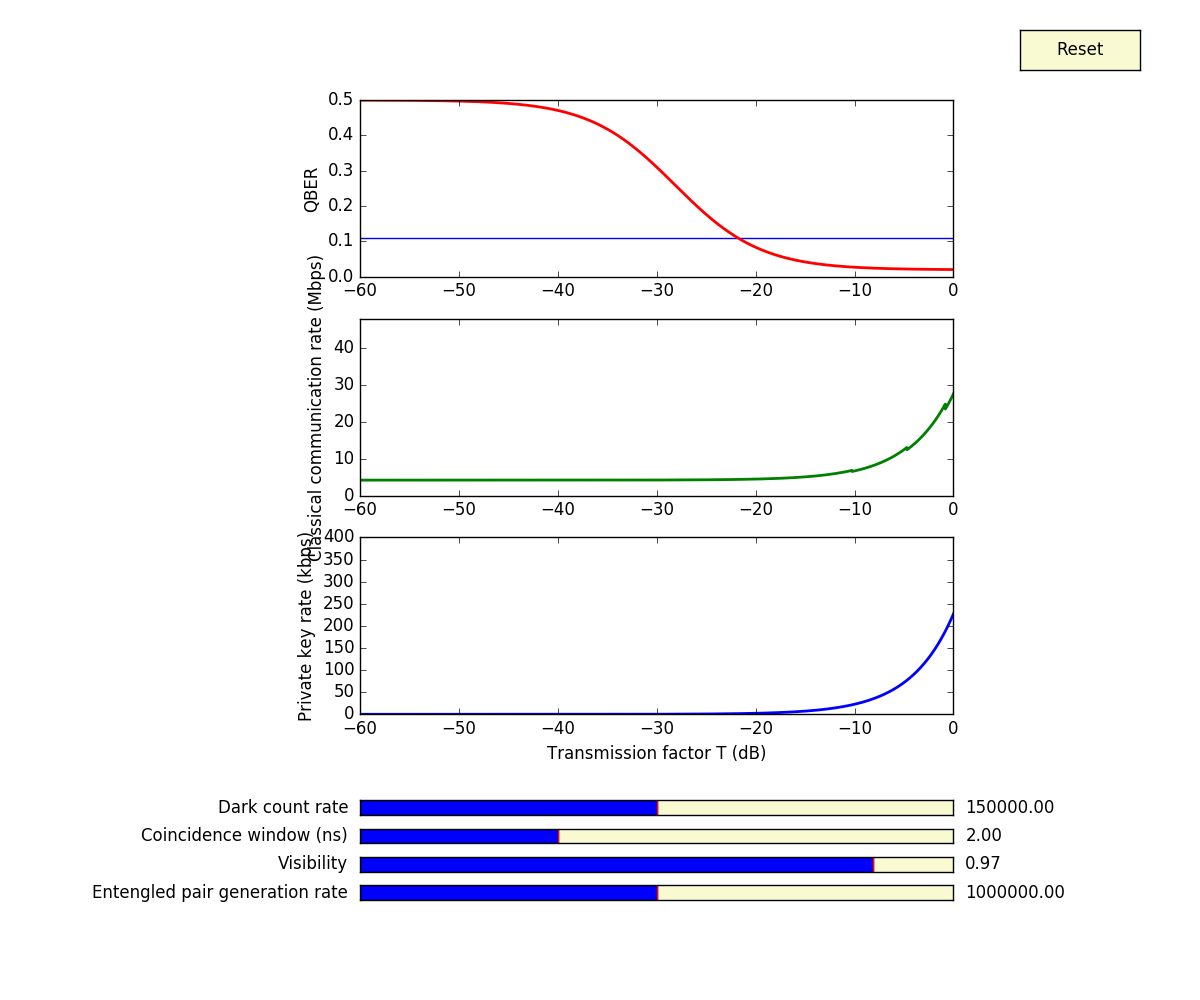
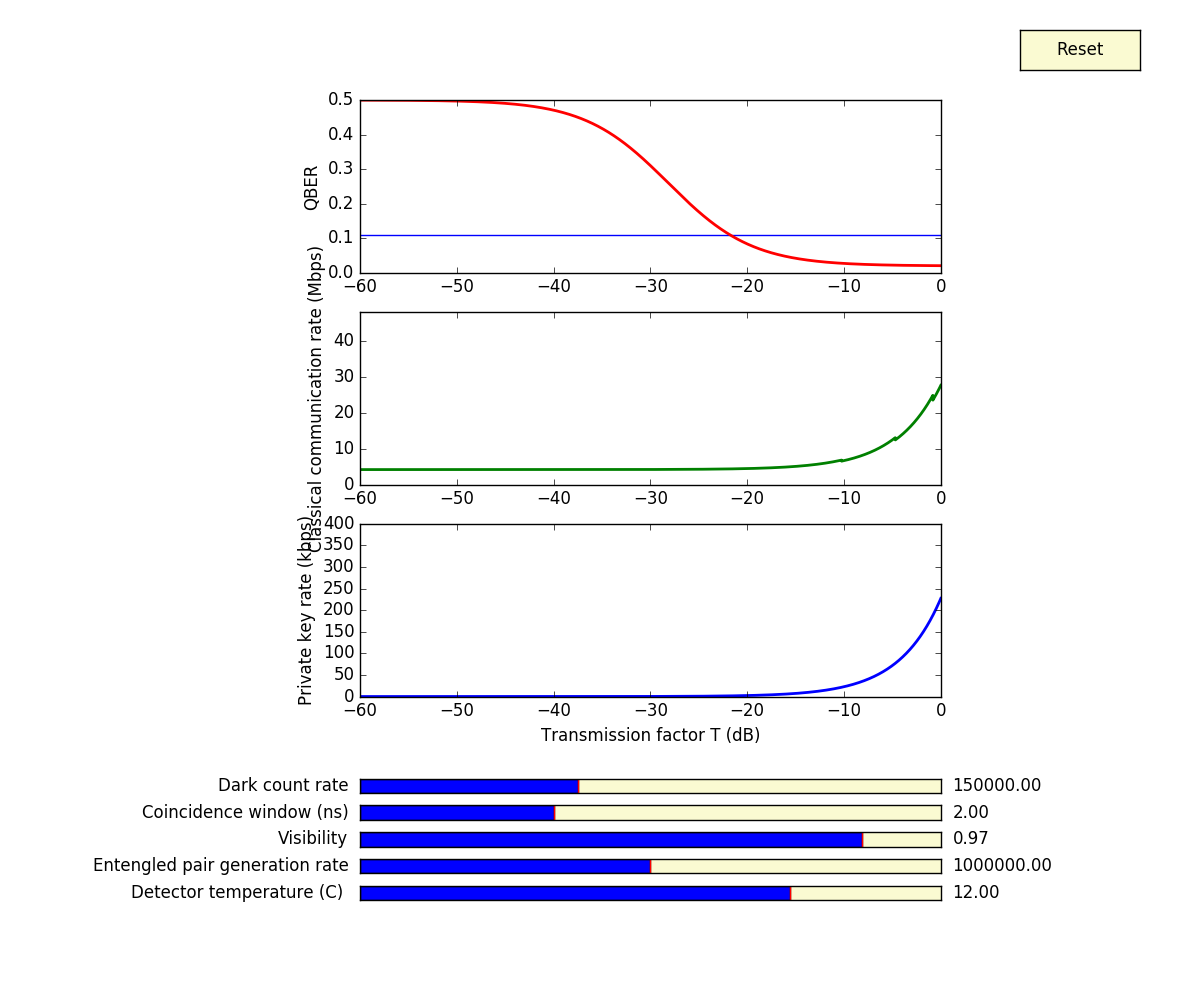
Added Temperature dependency of Dark count rate

diff --git a/s2qkd-sim.py b/s2qkd-sim.py
@@ -17,7 +17,10 @@
                                                             pairs generated from
                                                             the source per 
                                                             second.   
-                   
+                    Detector temperature (C)            =   Given in celcious. The
+                                                            detector temperature
+                                                            drives the dark
+                                                            count rate.  
                     reset                               =   On click the sliders
                                                             are reset to the
                                                             default values.
@@ -29,12 +32,14 @@
     Prerequisites:  This program is tested for python2.7
                     You need the following libraries
                   
-                    matplotlib
-                  
+                    numpy
+                    Scipy
+                    matplotlib 
+                   
                     To install them on Debian or Ubuntu run:
-                       
-                        sudo apt-get install python-matplotlib
-
+                        
+                    sudo apt-get install python-numpy python-scipy python-matplotlib 
+                    
                     Alternatively you can also use pip to install them. Please look
                     up the pip online documentation for pip instructions.
                         
@@ -57,16 +62,50 @@
 '''
 
 import math
+import numpy as np
 import matplotlib.gridspec as gridspec
 import matplotlib.pyplot as plt
 from matplotlib.widgets import Slider, Button
+from scipy.optimize import curve_fit
+
+
+
+#load temperature vs dark count data
+
+TM = []
+DC = []
+with open("apd_dc.csv") as f:
+    for line in f:
+        tmp, dc = line.split()
+        TM.append(float(tmp)) 
+        DC.append(float(dc)*4) # there are 4 APDs
+
+#curve fit
+
+def func(x, a, b, c):
+    return a * np.exp(b * x) + c
+
+#x = np.linspace(0,4,50)
+#y = func(x, 2.5, 1.3, 0.5)
+x = np.array(TM)
+yn = np.array(DC)
+
+print len(TM)
+print len(DC)
+#exit()
+#yn = y + 20*np.random.normal(size=len(x))
+
+popt, pcov = curve_fit(func, x, yn)
+
+
+
 
 # default values
 V0 = 0.97  # the default visibility
 dc0 = 150e3  # the default dark count reate
 tau_c0 = 2  # coincidance window size in ns
 r_pair0 = 1e6  # default rate of pair generation
-
+tmp0 = 12
 axcolor = 'lightgoldenrodyellow'
 
 # global parameters
@@ -278,9 +317,9 @@ ccr_list = [c_ccr(r_pair, dc, tau_c * 1e-9, V, x) for x in T_list]
 plotting code below
 '''
 # 10 
-gs = gridspec.GridSpec(10, 1,
-                       height_ratios=[12, 1, 12, 1, 12, 4, 1, 1, 1, 1],
-                       width_ratios=[35, 1, 2, 1, 2, 1, 1, 1, 1, 1],
+gs = gridspec.GridSpec(11, 1,
+                       height_ratios=[12, 1, 12, 1, 12, 4, 1, 1, 1, 1,1],
+                       width_ratios=[35, 1, 2, 1, 2, 1, 1, 1, 1, 1,1],
                        )
 
 gs.update(left=0.30, right=0.95, wspace=0.05)
@@ -304,10 +343,14 @@ axtau = plt.subplot(gs[5 + 2], axisbg=axcolor)
 stau = Slider(axtau, 'Coincidence window (ns)', 0.5, 5, valinit=tau_c0)
 
 axdc = plt.subplot(gs[4 + 2], axisbg=axcolor)
-sdc = Slider(axdc, 'Dark count rate', 0, 300e3, valinit=dc0)
+sdc = Slider(axdc, 'Dark count rate', 0, 400e3, valinit=dc0)
 
 axrpair = plt.subplot(gs[7 + 2], axisbg=axcolor)
 srpair = Slider(axrpair, 'Entengled pair generation rate', 0, 2e6, valinit=r_pair0)
+
+axtmp = plt.subplot(gs[10], axisbg=axcolor)
+stmp = Slider(axtmp, 'Detector temperature (C) ' , -25, 25, valinit=tmp0)
+
 
 axvis = plt.subplot(gs[6 + 2], axisbg=axcolor)
 svis = Slider(axvis, 'Visibility', 0.78, 1, valinit=V0)
@@ -358,15 +401,25 @@ def update(val):
     fig.canvas.draw_idle()
 
 
+
+
+def update_temp(val):
+    global dc
+    dc = func(stmp.val, *popt)
+    sdc.set_val(dc)
+    
+    
+    
 svis.on_changed(update)
 sdc.on_changed(update)
 stau.on_changed(update)
 srpair.on_changed(update)
+stmp.on_changed(update_temp)
 
 resetax = plt.axes([0.85, 0.93, 0.1, 0.04])
 button = Button(resetax, 'Reset', color=axcolor, hovercolor='0.975')
 
-
+    
 # the reset function for the reset button
 def reset(event):
     svis.reset()
